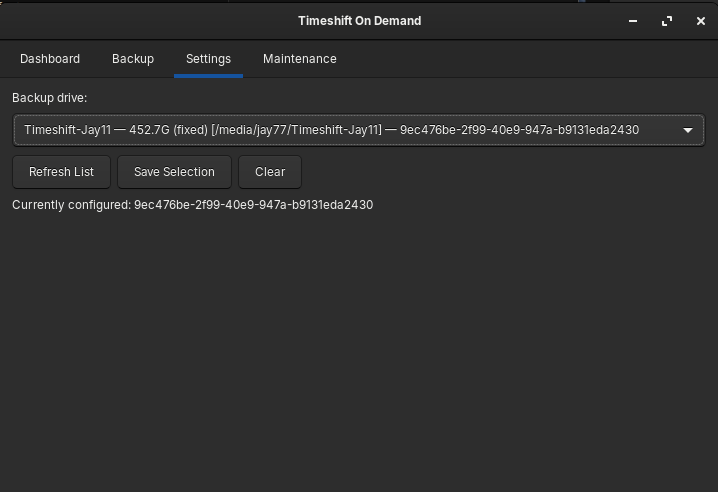
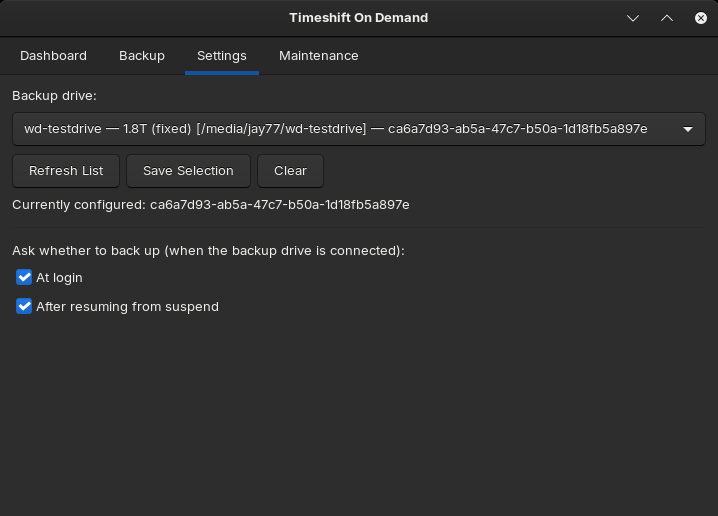
Docs: new Settings screenshot, Maintenance screenshot back
settings.png now shows the login/resume prompt checkboxes (dev21).
maintenance.png is new: it replaces the one removed with the cronfix
button and shows the read-only check. usage.md links it under the
Maintenance tab. Docs only; no version bump.

diff --git a/docs/usage.md b/docs/usage.md
@@ -85,6 +85,8 @@ resume.
 
 ## Maintenance tab
 
+![Maintenance tab](images/maintenance.png)
+
 Checks whether a `/etc/cron.d/timeshift-hourly` file exists, and explains
 why. This tab is read-only and changes nothing:
 
